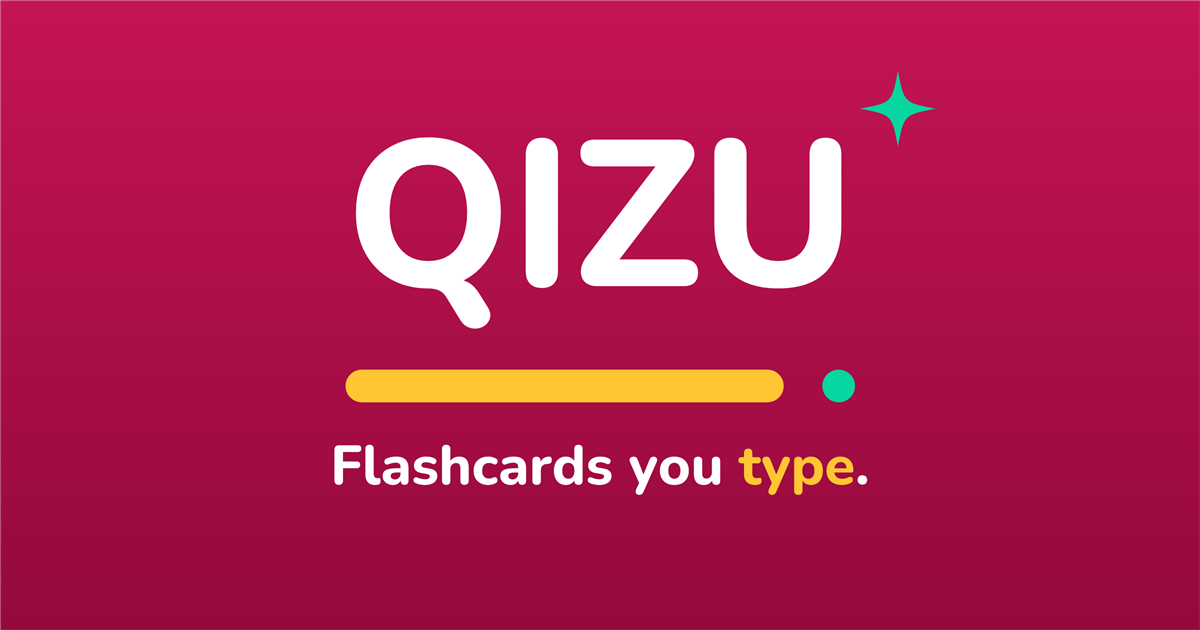
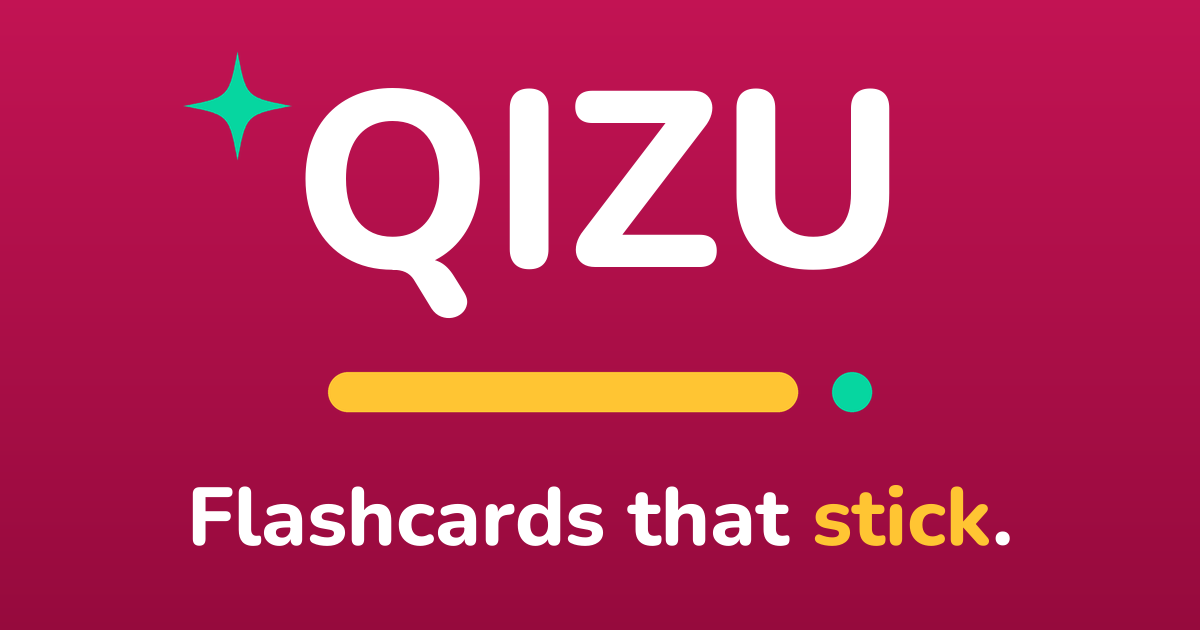
Rebuild the OG card and move the slogan to 'Flashcards that stick'
The card scales the wordmark up and trims the dead margins; the sparkle
is rendered from the icon master SVG path and all shapes are drawn
supersampled. The slogan drops 'you type' - typing is one mode of
three - in the h1, title and og:title; twitter:card moves to
summary_large_image so the wide card is actually used.

diff --git a/index.html b/index.html
@@ -3,15 +3,18 @@
 <head>
 <meta charset="utf-8">
 <meta name="viewport" content="width=device-width, initial-scale=1">
-<title>QIZU — flashcards you type</title>
+<title>QIZU — flashcards that stick</title>
 <meta name="description" content="Flashcards you type — QIZU checks the answer, so “close enough” never sneaks past. HSK, JLPT, TOPIK and CEFR lists, every word spoken (QIZU+). Free on Android.">
 <meta name="theme-color" content="#00796B">
 <meta name="color-scheme" content="light">
-<meta property="og:title" content="QIZU — flashcards you type">
+<meta property="og:title" content="QIZU — flashcards that stick">
 <meta property="og:description" content="Draw a card, type the answer, and QIZU checks it. Weak cards come back on their own — no schedules, no due-date pile-ups. Every ready-made word spoken aloud (QIZU+).">
 <meta property="og:type" content="website">
 <meta property="og:url" content="https://qizu.net/">
 <meta property="og:image" content="https://qizu.net/img/og.png">
+<meta property="og:image:width" content="1200">
+<meta property="og:image:height" content="630">
+<meta name="twitter:card" content="summary_large_image">
 <link rel="icon" href="favicon.ico" sizes="any">
 <link rel="apple-touch-icon" href="apple-touch-icon.png">
 <style>
@@ -506,7 +509,7 @@ footer .copy{margin-left:auto;color:var(--ink-variant);font-size:.9rem}
 
   <section class="wrap hero" aria-label="Introduction">
     <div>
-      <h1>Flashcards you <em>type</em>.</h1>
+      <h1>Flashcards that <em>stick</em>.</h1>
       <span class="mark" aria-hidden="true"><i></i><b></b></span>
       <p class="tag">Draw a card, type the answer, and QIZU tells you on the spot whether
         you were right. No flipping the card over, no grading yourself — though on
